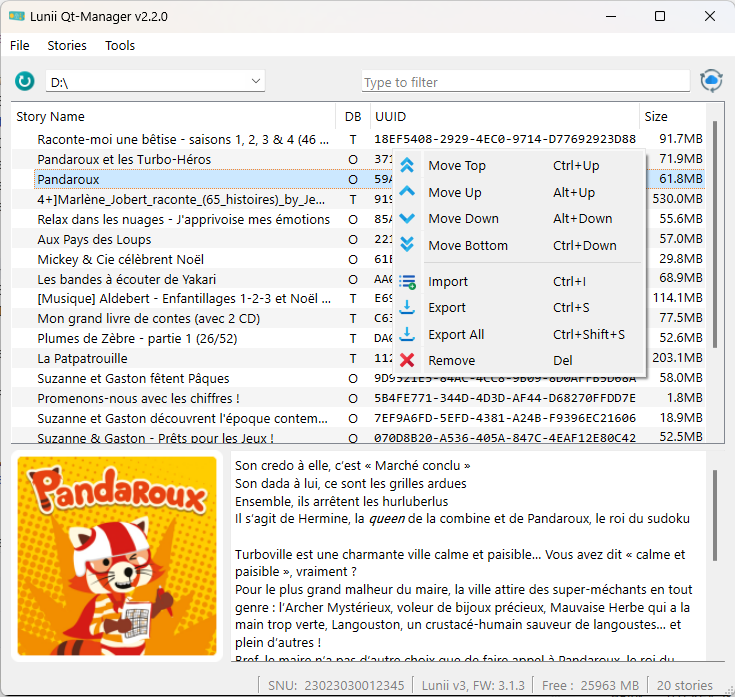
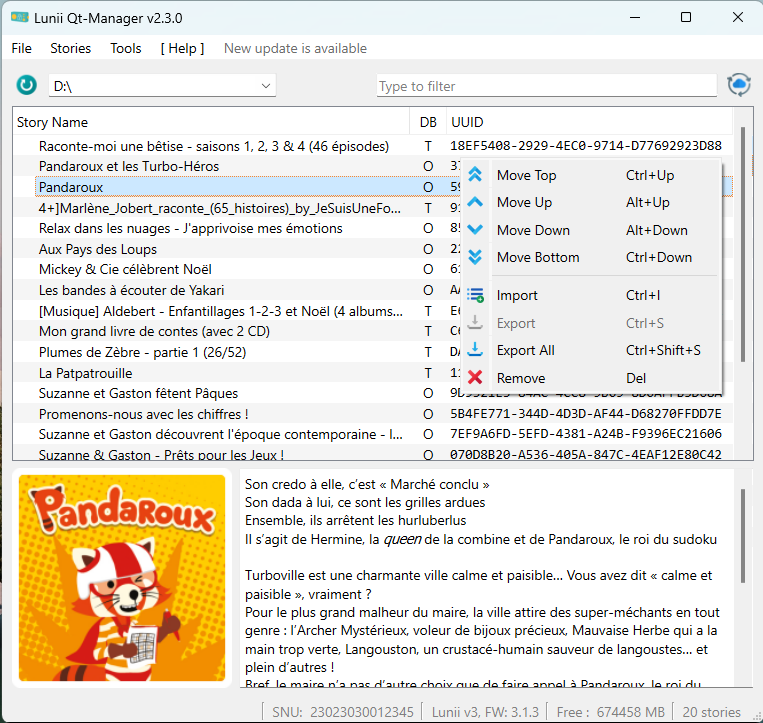
CleanUp & New screenshot

diff --git a/pkg/main_window.py b/pkg/main_window.py
@@ -1,5 +1,4 @@
 import os.path
-import platform
 import time
 from pathlib import WindowsPath
 
@@ -138,6 +137,8 @@ class MainWindow(QMainWindow, Ui_MainWindow):
         act_size = next(act for act in t_actions if act.objectName() == "actionShow_size")
         act_details.setChecked(not self.details_hidden)
         act_size.setChecked(not self.sizes_hidden)
+        act_log = next(act for act in t_actions if act.objectName() == "actionShow_Log")
+        act_log.setVisible(False)
 
         # Help Menu
         t_actions = self.menuHelp.actions()
@@ -348,6 +349,7 @@ class MainWindow(QMainWindow, Ui_MainWindow):
             # check if path is a recognized device
             if not is_device(dev_dir):
                 self.sb_update("Not a Lunii or unsupported one 😥")
+                return
 
             # add device to list
             device_list = [self.combo_device.itemText(i) for i in range(self.combo_device.count())]

diff --git a/pkg/ui/about_ui.py b/pkg/ui/about_ui.py
@@ -13,9 +13,9 @@ your latest Lunii firmware (to eventually restore from a broken device).<br />
 <br />Powered by Python 3.11, PySide 6<br />
 <br />
 
-Icons are provided freely by <a href="www.icons8.com">icon8</a> and <a href="www.flaticon.com">flaticon</a><br />
+Icons are provided freely by <a href="www.icons8.com">icon8</a><br />
  
-Logo are provided by <b>malexxx</b><br /><br />
+Logos are provided by <b>malexxx</b><br /><br />
 
 <b>URL : </b><a href="https://github.com/o-daneel/Lunii.QT">https://github.com/o-daneel/Lunii.QT</a>
 """
